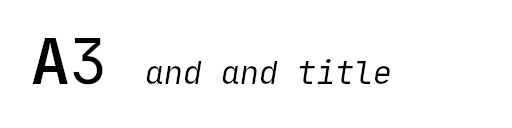
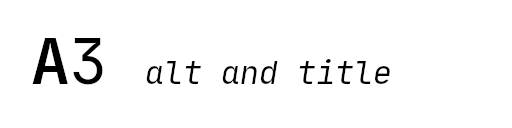
Fix typo + Add XCF files

Changed region(s): [[0.3125, 0.4688, 0.4062, 0.6562]]

diff --git a/a11y/index.html b/a11y/index.html
@@ -3,6 +3,7 @@
     <head>
         <meta charset="utf-8" />
 		<title>A11Y testing</title>
+		<meta name="viewport" content="width=device-width, initial-scale=1" />
 		<style type="text/css">
 		body {
 			font-size: 0,85em;
